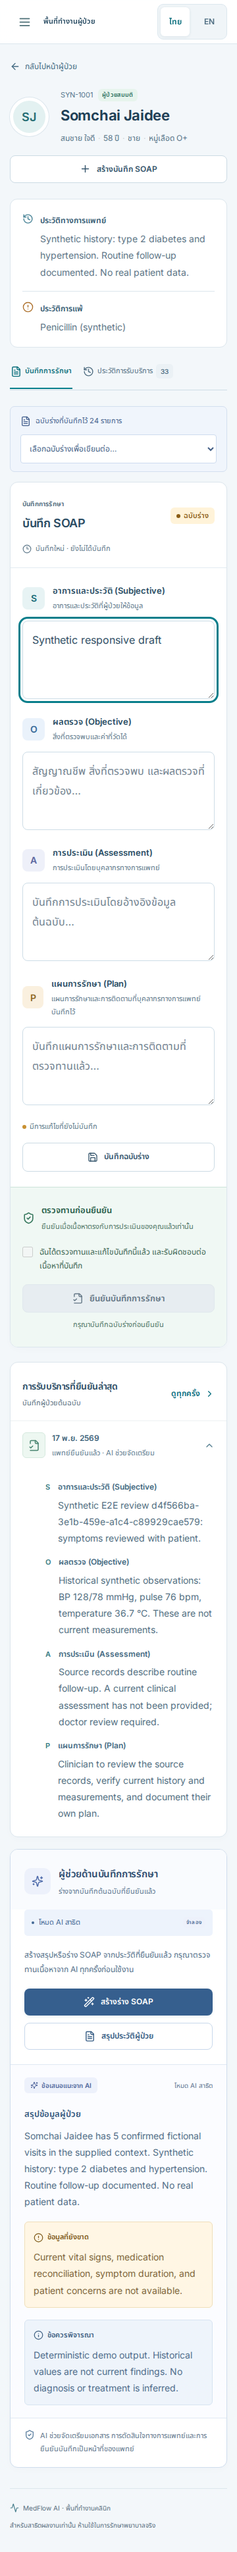
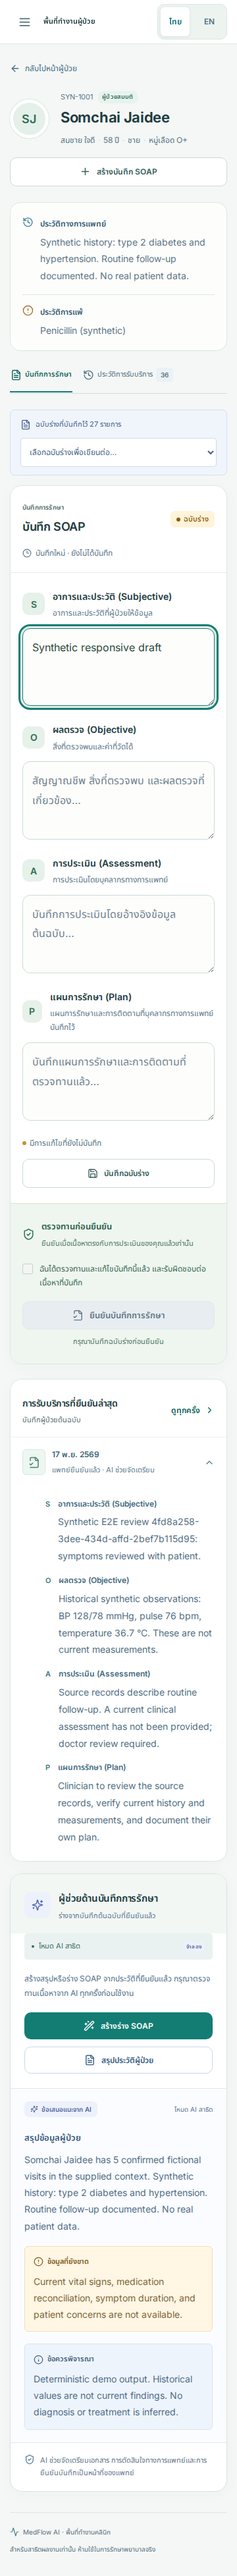
style: refresh MedFlow with Calm Care clinical theme

diff --git a/frontend/src/care-theme.css b/frontend/src/care-theme.css
@@ -1,0 +1,173 @@
+/* Calm Care: warm clinical surfaces with a deep navigation rail.
+   Layout and responsive behavior remain in clinical-theme.css. */
+:root {
+  --teal: #147d73;
+  --teal-dark: #0c625b;
+  --ink: #203b40;
+  --muted: #536e72;
+  --border: #dce7e3;
+  --surface: #ffffff;
+  --canvas: #f4f7f5;
+  --focus: #147d73;
+  --nav-surface: #142e38;
+  --nav-text: #bfd0d5;
+  --nav-active: #244b52;
+  --accent-soft: #e7f3ee;
+  --card-shadow: 0 4px 24px #1c423807;
+}
+body { background: var(--canvas); }
+::selection { background: #cce7dd; color: #173b36; }
+.card {
+  border-color: var(--border);
+  border-radius: 18px;
+  box-shadow: var(--card-shadow);
+}
+.btn { border-radius: 10px; min-height: 44px; font-size: 13px; }
+.btn-primary, .btn-secondary { background: var(--teal); box-shadow: none; }
+.btn-primary:hover:not(:disabled), .btn-secondary:hover:not(:disabled),
+.btn-ai:hover:not(:disabled) { background: var(--teal-dark); }
+.btn-outline { color: #365c59; border-color: #c9dbd5; }
+.btn-outline:hover:not(:disabled) { background: #eef5f1; border-color: #83afa2; }
+.btn:active:not(:disabled), .open-patient:active { filter: brightness(.94); }
+.text-link { color: var(--teal-dark); }
+.badge { border-radius: 7px; }
+.badge-teal { background: var(--accent-soft); color: #25654d; }
+.avatar { background: #e4f0e9; color: #326d58; }
+.brand-mark { background: var(--teal); border-radius: 13px; }
+.brand-ai { color: var(--teal); }
+.sidebar {
+  background: var(--nav-surface);
+  border-right: 0;
+  padding-top: 32px;
+}
+.sidebar > .brand { color: #f4faf8; margin-bottom: 42px; }
+.sidebar .brand-ai { color: #88d4bd; }
+.sidebar .brand small { color: #a9c2c7; }
+.sidebar .brand-mark { background: #2c635e; color: white; }
+.sidebar .workspace-label { color: #a2bdc3; font-size: 11px; }
+.sidebar .nav-item { color: var(--nav-text); border-radius: 10px; }
+.sidebar .nav-item:hover { background: #203f49; color: #ffffff; }
+.sidebar .nav-item.active {
+  background: var(--nav-active);
+  color: #e7fff5;
+  box-shadow: inset 3px 0 #88d4bd;
+}
+.sidebar .nav-count { background: #365760; color: #e3f2ef; }
+.sidebar .ai-sidebar-card {
+  background: #1c3b45;
+  border-color: #35535b;
+  border-radius: 14px;
+}
+.sidebar .ai-sidebar-card h4 { color: #edf6f3; font-size: 13px; }
+.sidebar .ai-sidebar-card p { color: #b9ced1; font-size: 12px; }
+.sidebar .ai-orb { background: #30564f; color: #b0e5cf; }
+.sidebar .ai-card-mode { color: #a5dbc6; font-size: 11px; }
+.sidebar .sidebar-user { border-color: #36515a; }
+.sidebar .sidebar-user strong { color: #edf7f4; font-size: 12px; }
+.sidebar .sidebar-user small { color: #b4cbd0; font-size: 11px; }
+.sidebar .sidebar-user button, .sidebar .sidebar-close { color: #c5d9dc; }
+.sidebar .sidebar-user button:hover, .sidebar .sidebar-close:hover {
+  background: #2b4d56; color: #fff;
+}
+.sidebar .avatar { background: #365953; color: #dcf4e7; }
+.topbar { background: #ffffffed; border-color: var(--border); }
+.breadcrumb strong { color: var(--ink); }
+.main-content { padding-top: 36px; }
+.eyebrow { color: #5c7770; font-size: 11px; letter-spacing: .8px; }
+.page-heading h1 { font-size: 31px; font-weight: 650; color: var(--ink); }
+.page-heading p { color: var(--muted); font-size: 14px; }
+.date-pill { border-color: var(--border); border-radius: 12px; color: var(--muted); }
+.language-switcher { border-color: var(--border); background: #edf3ef; border-radius: 10px; }
+.stat-card { padding: 22px; border-top: 1px solid var(--border); }
+.stat-card:nth-child(n) { border-top-color: var(--border); }
+.stat-card > strong { color: var(--ink); font-size: 36px; font-weight: 600; }
+.stat-label { color: var(--muted); font-size: 13px; }
+.stat-card > small { font-size: 11px; }
+.icon-tile.teal { background: #e5f2eb; color: #27745e; }
+.icon-tile.blue { background: #eaf1f8; color: #426b91; }
+.icon-tile.amber { background: #fbf1df; color: #986b26; }
+.welcome-banner {
+  background: #e6efe8;
+  border-color: #d3e3d7;
+  border-radius: 18px;
+  padding: 28px;
+}
+.banner-eyebrow { color: #426d5a; font-size: 11px; }
+.welcome-banner h2 { color: #244d3e; font-weight: 600; font-size: 29px; }
+.welcome-banner p { color: #456a59; font-size: 13px; }
+.welcome-banner .btn { background: var(--teal-dark); color: white; min-height: 44px; }
+.welcome-banner .btn:hover:not(:disabled) { background: #084d46; }
+.banner-art { color: #508c70; opacity: .65; }
+.art-heart, .art-spark, .art-check { border-color: #b3cebd; color: #4b836a; }
+.patient-table-heading h2 { color: var(--ink); font-size: 18px; }
+.patient-table-heading p { color: var(--muted); font-size: 13px; }
+.search-field, .select-wrap { border-color: #d1dfd9; border-radius: 10px; }
+.search-field input, .select-wrap select { font-size: 13px; }
+.search-field:focus-within { border-color: var(--teal); box-shadow: 0 0 0 3px #dfefe7; }
+th { background: #f5f8f5; color: #566f65; font-size: 12px; border-color: #e4ece6; }
+td { border-color: #e9efea; }
+tbody tr:hover { background: #f6faf7; }
+.patient-name-cell strong { color: var(--ink); font-size: 13px; }
+.patient-name-cell small, .patient-id, .age-sex, .date-cell { font-size: 12px; }
+.open-patient { color: #397963; background: #edf5ef; border-radius: 10px; }
+.open-patient:hover { color: #16553e; background: #dceee2; }
+.table-footer { background: #fafcf9; color: #597368; font-size: 11px; }
+.assistant-intro h3, .section-heading h2, .ai-panel-heading h2 { color: var(--ink); }
+.assistant-intro h3 { font-size: 22px; }
+.assistant-intro > p, .assistant-feature strong { font-size: 13px; }
+.assistant-feature small, .assistant-disclosure { font-size: 12px; }
+.review-card { background: #fffbf2; border-color: #ebdfc6; }
+.patient-context { border-radius: 16px; background: #fdfefc; }
+.profile-title h1 { color: var(--ink); }
+.workspace-tabs > button.selected { color: var(--teal-dark); border-color: var(--teal); }
+.soap-label label { color: var(--ink); font-size: 14px; }
+.soap-label small, .editor-meta > span:first-child, .editor-actions > span { font-size: 12px; }
+.soap-section textarea {
+  font-size: 14px; border-color: #ccdcd3; border-radius: 12px;
+  color: #2e4940; background: #fdfefc;
+}
+.soap-section textarea:focus { border-color: var(--teal); box-shadow: 0 0 0 3px #e2f0e8; }
+.soap-section textarea:read-only { background: #f5f8f5; }
+.soap-letter { border-radius: 10px; background: #e6f1e9; color: #326e51; }
+.confirmation-area { background: #eef6ef; border-color: #d4e5d5; }
+.ai-panel { border-color: #d7e3df; }
+.ai-panel-heading { background: #f2f7f4; }
+.mode-banner { background: #eaf2f1; color: #396c66; }
+.record-body p { font-size: 14px; line-height: 1.85; }
+.dialog-content { border-radius: 20px; border-color: var(--border); }
+.dialog-overlay { background: #102a3880; }
+.login-story { background: #142e38; }
+.login-story > .brand { color: #f0f8f2; }
+.login-copy .light { color: #b0d7ca; }
+.login-story .brand-mark { background: #2c635e; }
+.login-story .brand-ai, .login-copy h1 span { color: #a7d9bf; }
+.login-story .brand small, .login-story-footer { color: #b0cacd; }
+.login-copy h1 { color: #f0f8f2; font-weight: 550; }
+.login-copy > p { color: #bfd3d4; font-size: 16px; }
+.login-feature { color: #dfefe7; }
+.login-feature svg { color: #a7d9bf; }
+.login-feature small { color: #b5cdd0; }
+.login-form-side { background: #f7f9f5; }
+.login-form { padding: 32px; border: 1px solid var(--border); border-radius: 24px; background: white; box-shadow: var(--card-shadow); }
+.login-form h2 { color: var(--ink); }
+.login-form input { border-color: #ccdcd3; border-radius: 10px; }
+.demo-selector > div { background: #f0f5f1; border-radius: 10px; }
+.demo-selector button.selected { color: var(--teal-dark); border-color: #d5e3da; }
+.login-demo-note { background: #f2f7f2; border-color: #dce8dc; color: #526e5d; border-radius: 12px; }
+@media (max-width: 800px) {
+  .main-content { padding-top: 26px; }
+  .page-heading h1 { font-size: 27px; }
+  .sidebar { box-shadow: none; }
+  .sidebar.is-open { box-shadow: 16px 0 60px #102a3826; }
+  .soap-section textarea, .search-field input, .select-wrap select { font-size: 16px; }
+  .login-form { padding: 24px; }
+}
+@media (max-width: 640px) {
+  .stat-card { padding: 17px; }
+  .stat-card > strong { font-size: 30px; }
+  .welcome-banner { padding: 24px 20px; }
+  .welcome-banner h2 { font-size: 25px; }
+  .patient-table-card tbody tr { border-color: var(--border); border-radius: 14px; }
+  .patient-table-heading h2 { font-size: 17px; }
+  .login-form { padding: 22px 18px; }
+}

diff --git a/frontend/tests/theme.spec.ts b/frontend/tests/theme.spec.ts
@@ -1,0 +1,22 @@
+import { test, expect } from '@playwright/test';
+
+test('login and overview fit narrow, landscape and enlarged text layouts', async ({ page }) => {
+  await page.addInitScript(() => localStorage.setItem('medflow.language', 'th'));
+  await page.emulateMedia({ reducedMotion: 'reduce' });
+  await page.setViewportSize({ width: 1440, height: 1000 });
+  await page.goto('/');
+  await expect(page.getByRole('button', { name: 'เข้าสู่พื้นที่ทำงาน' })).toBeVisible();
+  await page.screenshot({ path: 'screenshots/calm-care-login.png', fullPage: true });
+  await page.setViewportSize({ width: 375, height: 812 });
+  expect(await page.evaluate(() => document.documentElement.scrollWidth <= innerWidth)).toBe(true);
+  await page.screenshot({ path: 'screenshots/calm-care-login-mobile.png', fullPage: true });
+  await page.getByRole('button', { name: 'เข้าสู่พื้นที่ทำงาน' }).click();
+  await expect(page.getByRole('heading', { name: 'ภาพรวมคลินิก' })).toBeVisible();
+  for (const size of [{ width: 375, height: 812 }, { width: 812, height: 375 }]) {
+    await page.setViewportSize(size);
+    await page.addStyleTag({ content: 'html { font-size: 125%; }' });
+    expect(await page.evaluate(() => document.documentElement.scrollWidth <= innerWidth)).toBe(true);
+  }
+  await page.setViewportSize({ width: 1440, height: 1000 });
+  await page.screenshot({ path: 'screenshots/calm-care-overview.png', fullPage: true });
+});

diff --git a/frontend/src/main.tsx b/frontend/src/main.tsx
@@ -7,6 +7,7 @@ import '@fontsource-variable/inter';
 import '@fontsource-variable/noto-sans-thai';
 import './styles.css';
 import './clinical-theme.css';
+import './care-theme.css';
 const client = new QueryClient({
   defaultOptions: { queries: { retry: 1, staleTime: 30000, refetchOnWindowFocus: false } },
 });

diff --git a/docs/verification.md b/docs/verification.md
@@ -8,7 +8,7 @@ Verified locally on **17 November 2026 (Asia/Bangkok)** using Docker Desktop 28.
 |---|---|
 | `docker compose up --build -d` | Pass; frontend and backend multi-stage images built and all three application services started |
 | `docker compose --profile test run --build --rm backend-tests` | **29 passed**, 0 failed after Swagger documentation/session coverage |
-| `docker compose --profile test run --build --rm e2e` | **22 passed**, 0 failed after Swagger, responsive and shared-session coverage |
+| `docker compose --profile test run --build --rm e2e` | **23 passed**, 0 failed after Calm Care theme and layout coverage |
 | `docker compose restart` followed by `docker compose up -d --wait` | All three application services healthy; database record fingerprint unchanged |
 | Fresh-volume startup using the optional acceptance override | Three users, 15 patients, 45 confirmed visits, one AI draft, one committed EF migration |
 | Frontend GET `http://localhost:3000` | HTTP 200 |
@@ -92,3 +92,7 @@ The frontend Swagger proxy retains the application's strict `script-src 'self'` 
 Responsive browser checks cover 360, 390, 768 and 1024 CSS px, plus Swagger at 360 px. Patient actions stay in view; closed phone navigation is inert, Escape restores focus, the SOAP editor precedes AI assistance on narrow screens, and no document-level horizontal overflow was found. A targeted UI/UX Pro Max review informed larger web touch targets and 16px narrow-screen text inputs. These checks do not certify native keyboard behavior, screen-reader operation or WCAG conformance.
 
 Readiness was also verified in a disposable Docker project: `/health` returned backend JSON, failed after stopping that backend, and `/frontend-health` continued to prove Nginx liveness. The disposable project was removed and the default application remained running. See [Swagger usage and responsive details](swagger-and-responsive.md).
+
+## Calm Care theme follow-up
+
+The frontend Docker build passed, followed by 23/23 browser tests. The new theme keeps locally bundled Thai/English fonts and existing workflow controls while changing navigation, surfaces, typography and component styling. Additional checks cover a 375px login and overview in portrait/landscape with reduced motion and an enlarged root font. Desktop login/overview and phone SOAP screenshots were inspected; the closed drawer's unwanted shadow was removed and five focused layout cases passed again. All three application services remained healthy. Backend code was unchanged; its previously verified 29-case suite was not rerun for this CSS change. See [theme details](calm-care-theme.md).

diff --git a/docs/calm-care-theme.md b/docs/calm-care-theme.md
@@ -1,0 +1,9 @@
+# Calm Care theme
+
+This visual refresh pairs a deep blue navigation rail with warm white content surfaces, sage panels and teal primary actions. Existing Inter and Noto Sans Thai fonts remain locally bundled. The larger patient names, labels and clinical text help distinguish navigation, record content and review actions.
+
+The visual layer lives in `frontend/src/care-theme.css`, after the existing layout and responsive rules. It defines shared color tokens and component styling for login, navigation, overview, patient lists, SOAP editing and dialogs. The amber review state and explicit confirmation controls remain visible. Thai/English behavior and the mobile drawer interaction are unchanged.
+
+The UI/UX Pro Max healthcare query recommended an accessible clinical palette, visible focus and restrained motion. Its sales landing-page pattern did not fit this authenticated workspace, so it was not applied. No remote fonts, images or dependencies were added.
+
+Validation: Docker frontend build passed and the full browser regression suite passed 23/23 cases. The additional layout check covers a 375px login, portrait/landscape overview, reduced motion and an enlarged root font. Desktop login/overview and narrow SOAP screenshots were inspected. This is not a screen-reader or full accessibility audit. A drawer shadow visible while the menu was closed was removed after visual inspection and the responsive tests were rerun.
